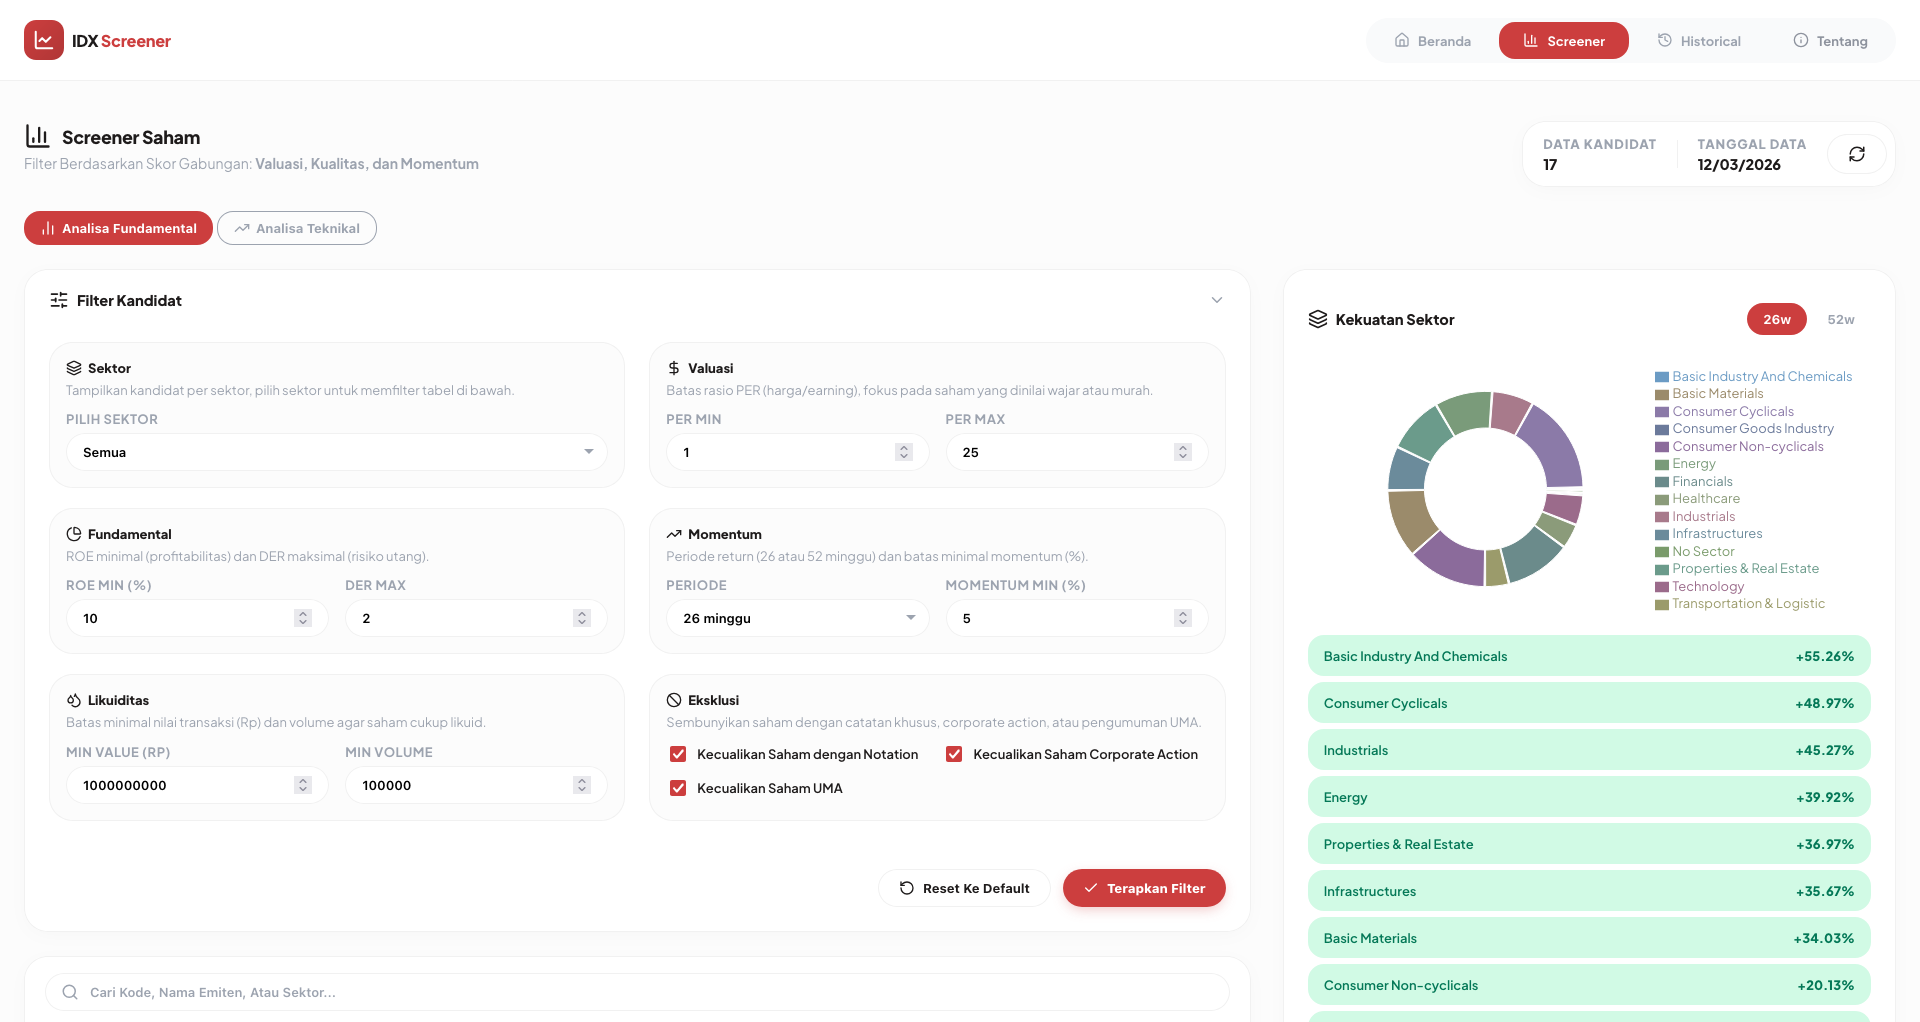
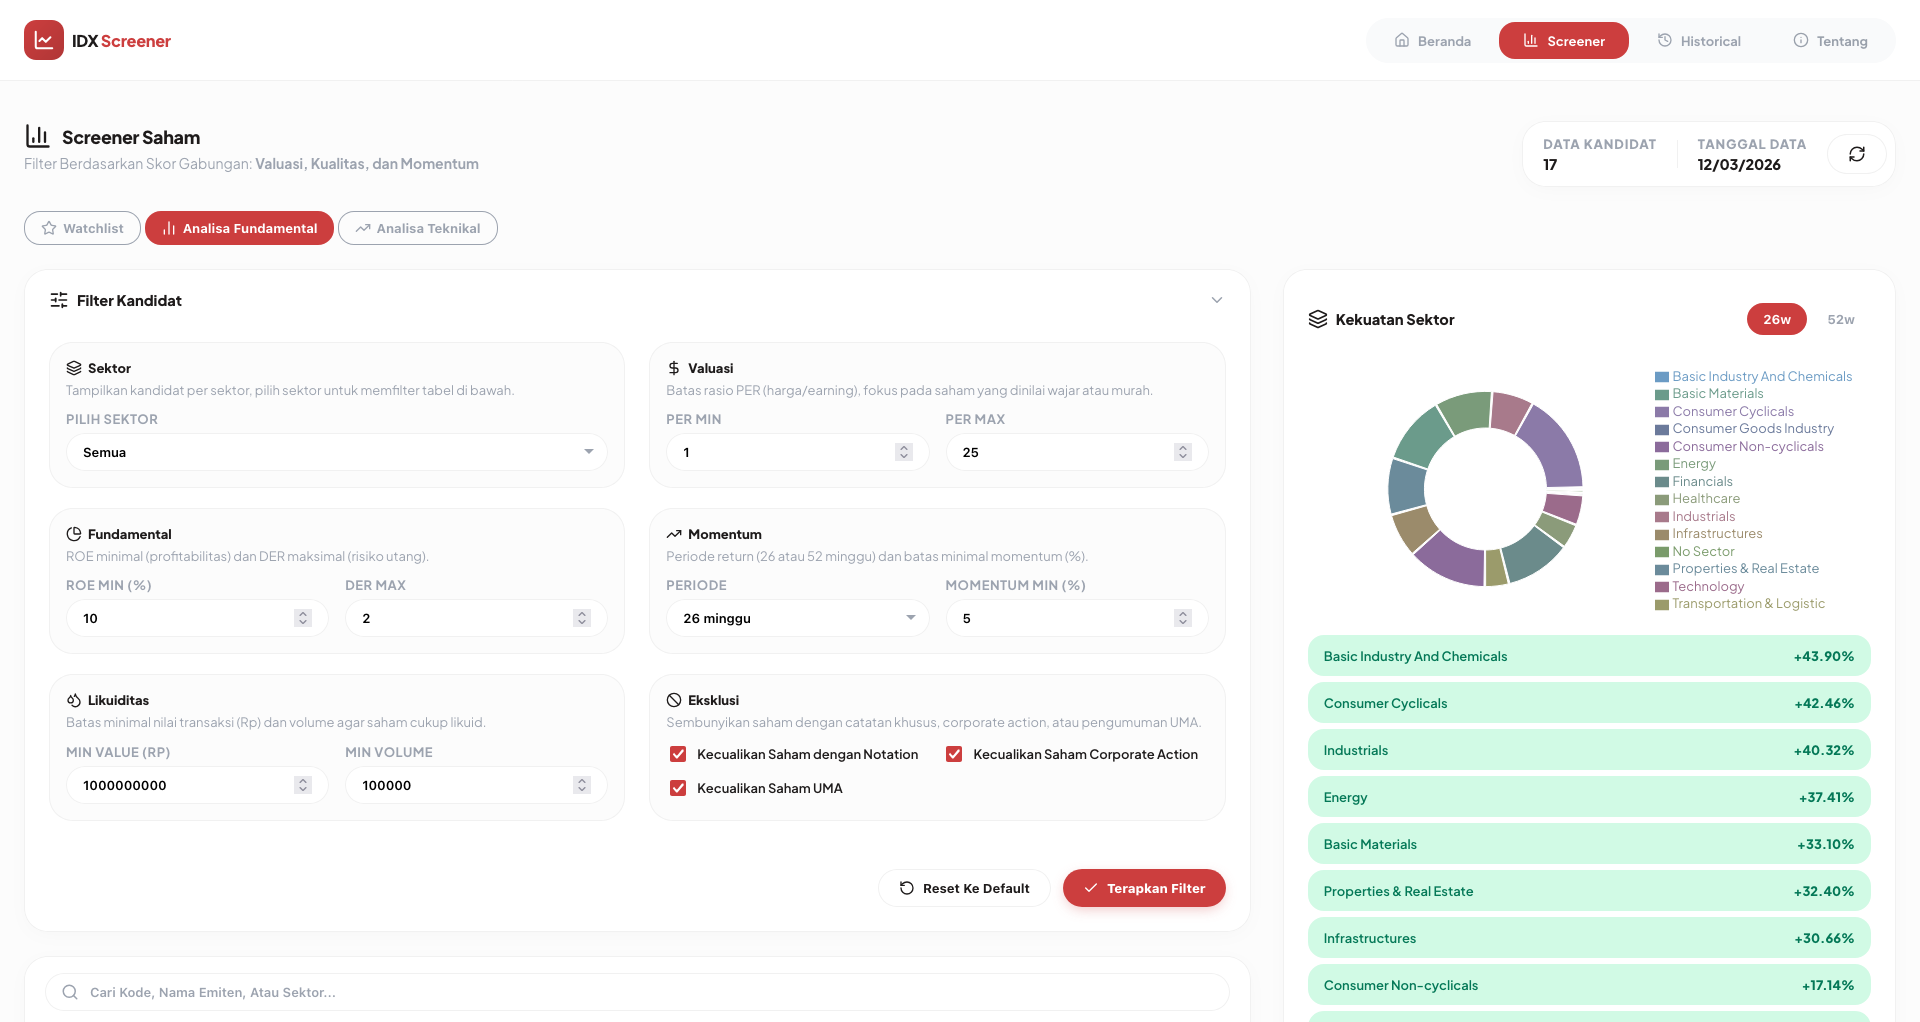
docs(idx-ui): update README and preview assets :fuelpump:
- Add Watchlist to README feature list
- Remove draft roadmap and development note from README
- Update preview screenshots (1–4.png)

diff --git a/README.md b/README.md
@@ -38,15 +38,8 @@ Screener saham Indonesia: analisis pakai data, bukan feeling.
 - **Kekuatan sektor** — Pie chart kekuatan sektor, periode 26 atau 52 minggu.
 - **Detail saham** — Modal tab fundamental dan teknikal: OHLC, RSI, foreign flow.
 - **Historical bid/offer** — Agregat bid/offer per sektor, rasio dan rata-rata, periode 1W–12M.
+- **Watchlist** — Simpan saham favorit pakai bintang, untuk akses data yang lebih cepat.
 - **API + SQLite** — Backend Deno, data di SQLite, cron tiap jam fetch data IDX.
-
-> [!NOTE]
-> Sedang dalam pengembangan
-
-## Roadmap (Draft)
-
-- [ ] Export Data
-- [ ] Watchlist
 
 ## Instalasi
 
